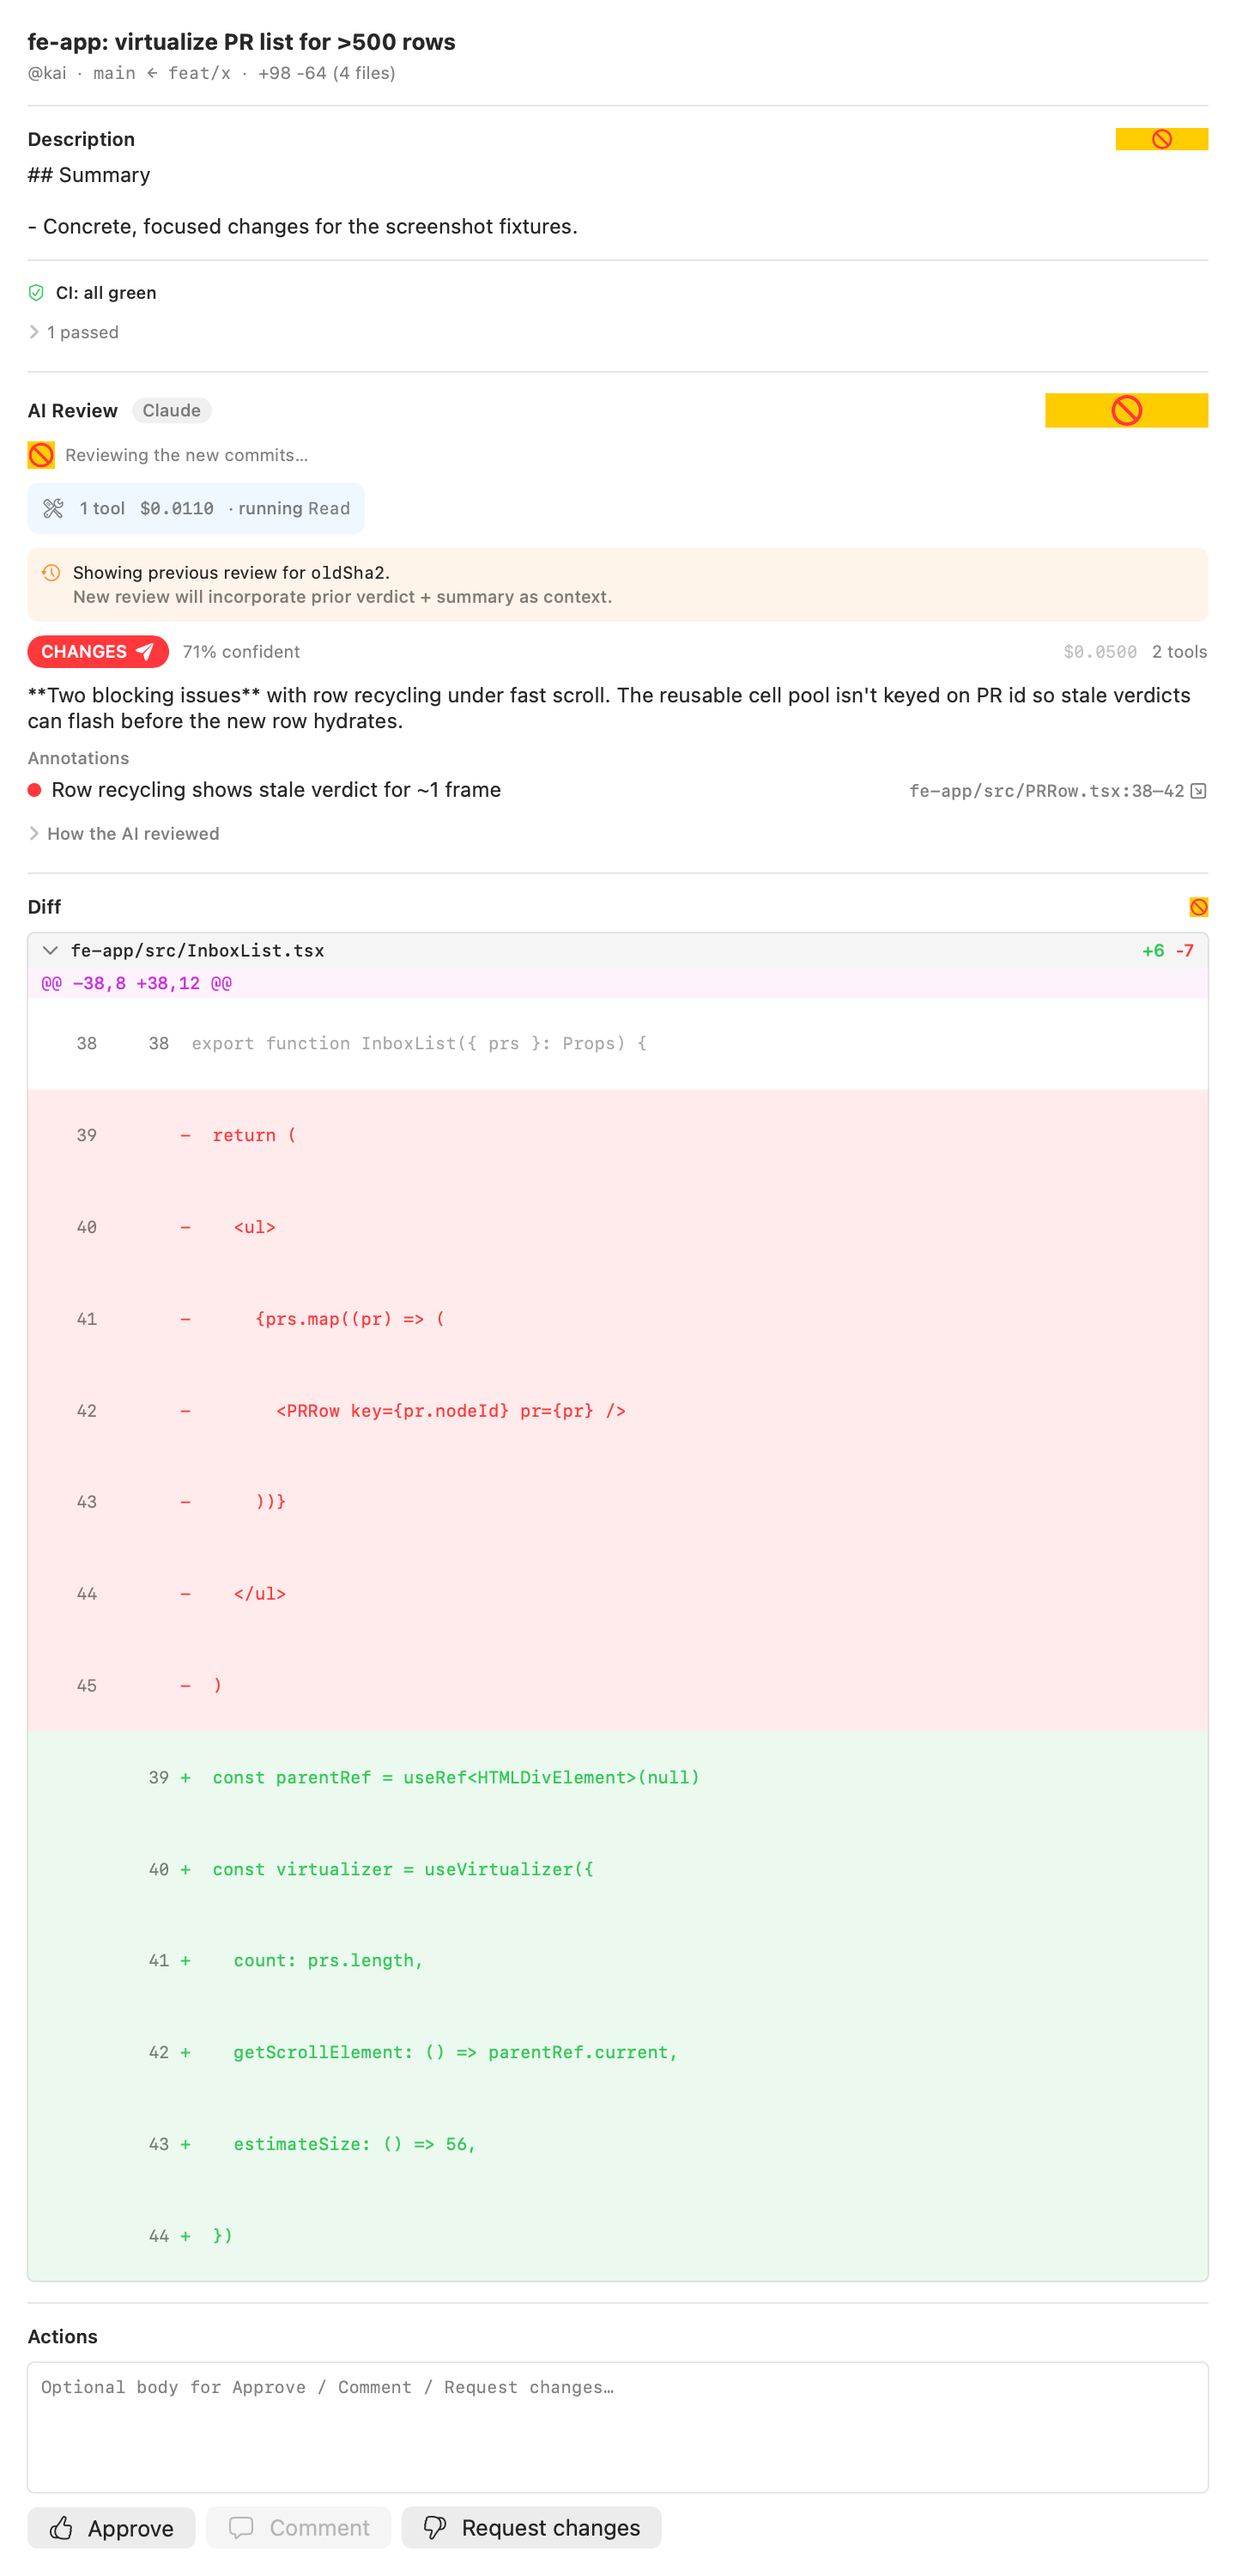
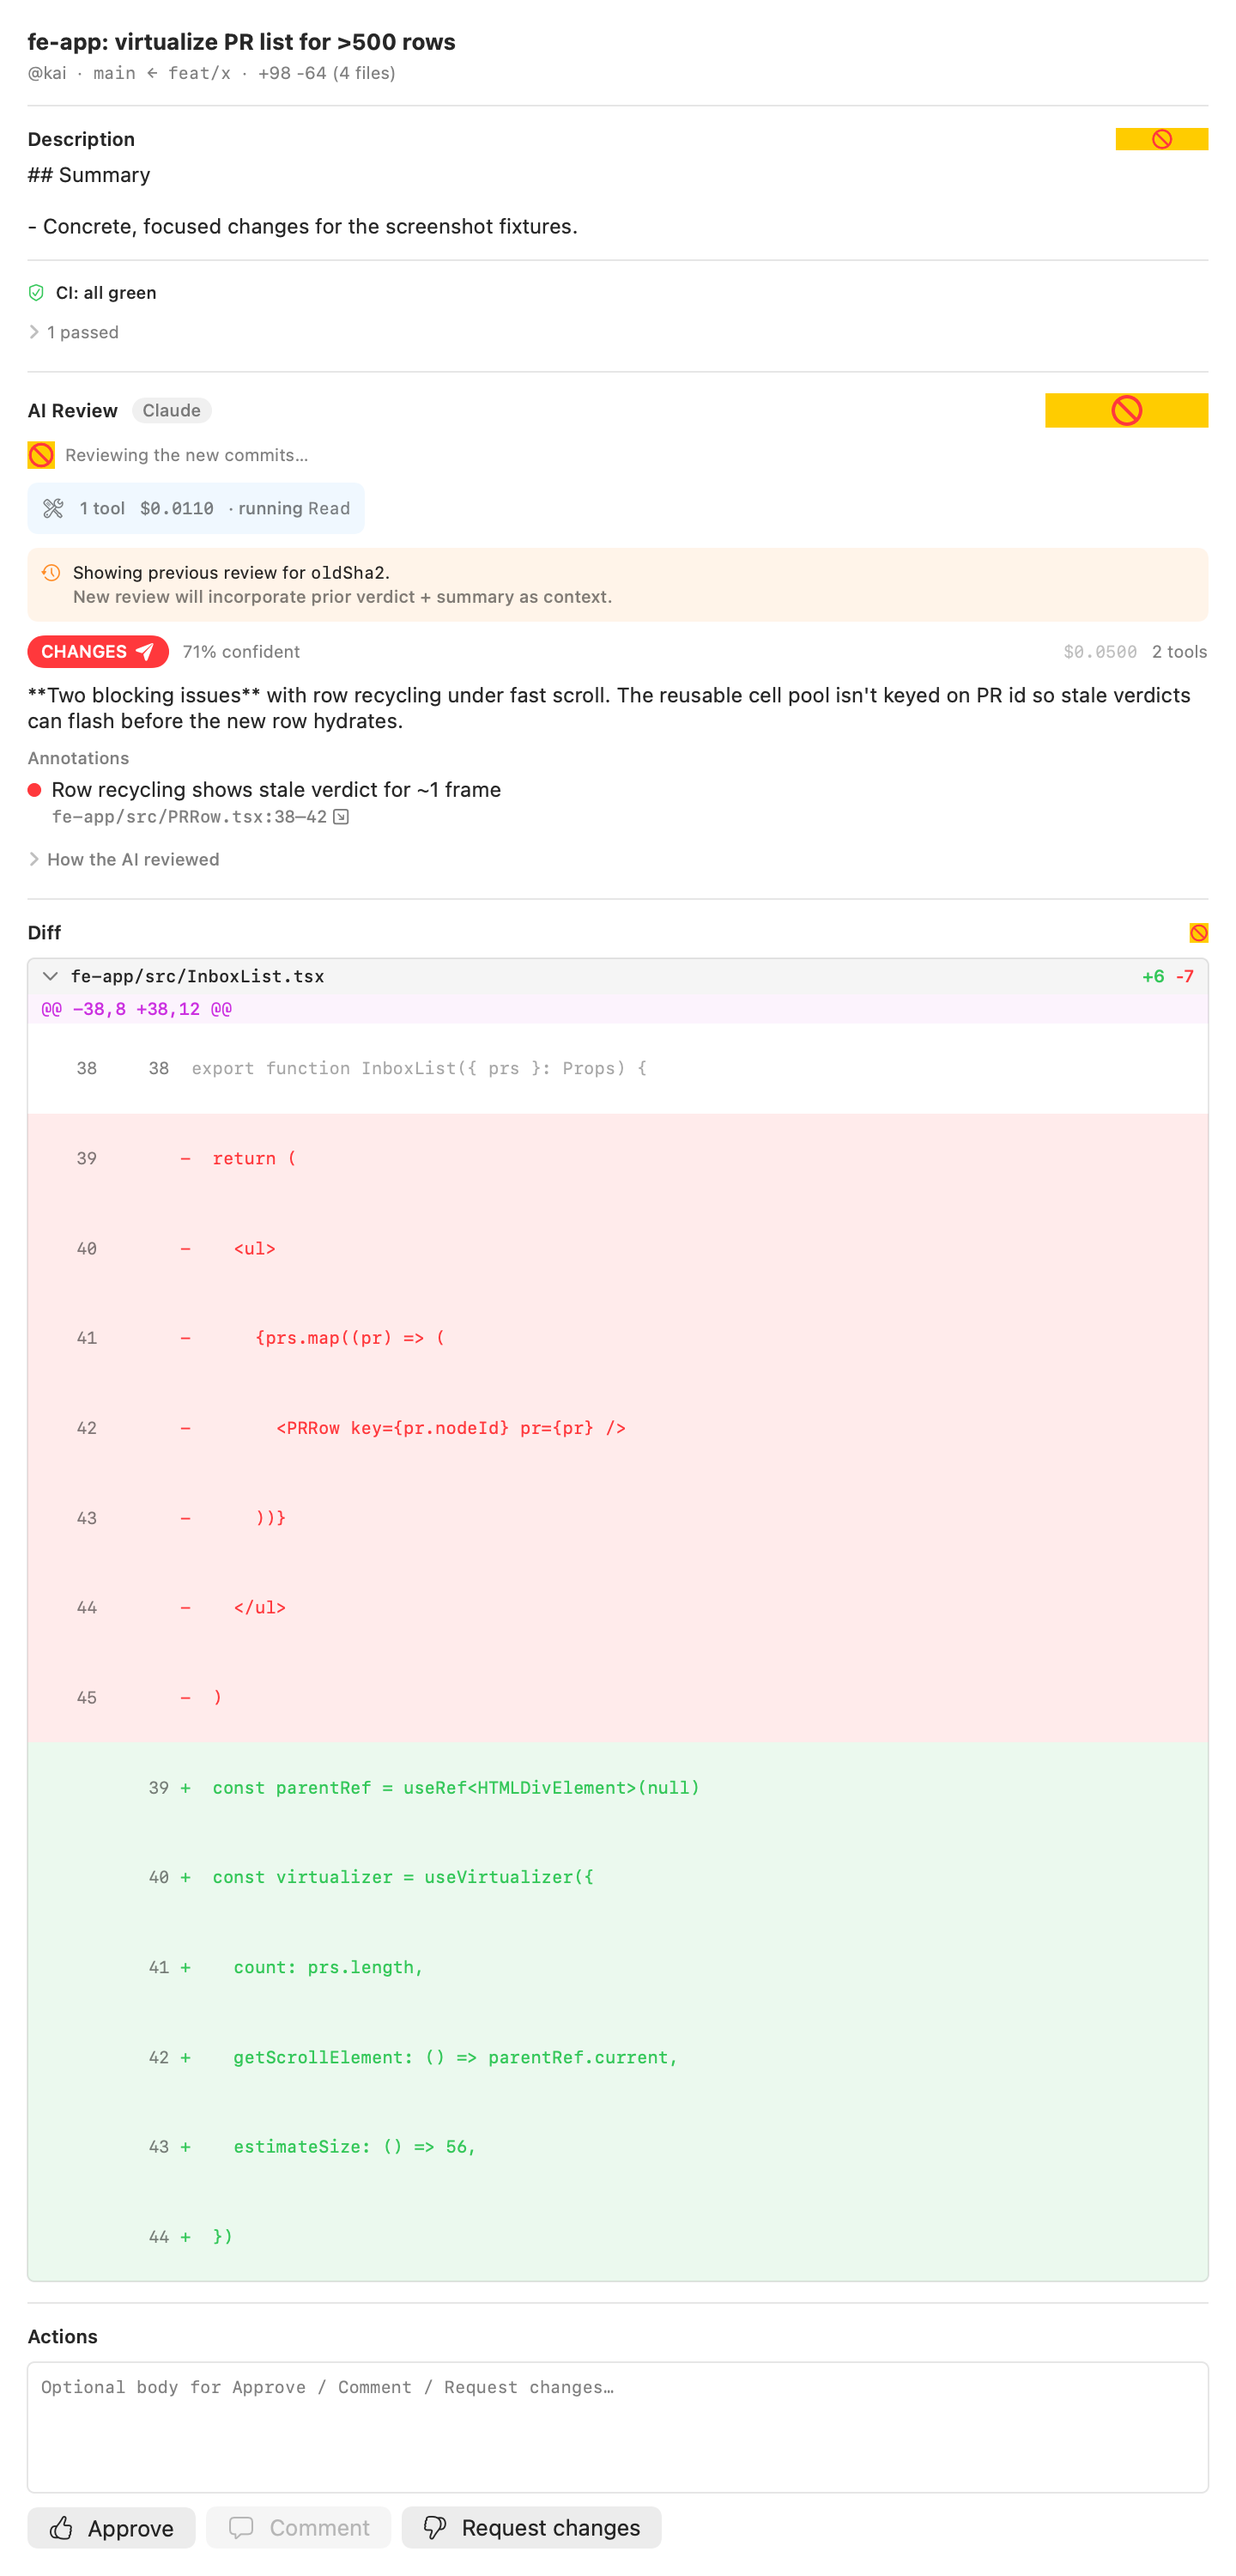
prbar: split annotation rows — title on its own line, path + jump-to-diff below
Long monorepo paths (`kernel-billing/internal/foo/bar.go:123-127`) were
trimming the title with ellipsis. Now the row is two stacked lines:
the title + severity dot grab the full width (up to 2 lines, then
truncate), and the file path with the locate-in-diff button sits below,
indented under the dot. Title stays the prominent thing; the path is
secondary.

diff --git a/Sources/PRBar/UI/AnnotationsSummaryView.swift b/Sources/PRBar/UI/AnnotationsSummaryView.swift
@@ -53,25 +53,28 @@ struct AnnotationsSummaryView: View {
     private func row(idx: Int, annotation: DiffAnnotation) -> some View {
         let isOpen = expanded.contains(idx)
         VStack(alignment: .leading, spacing: 2) {
-            HStack(alignment: .firstTextBaseline, spacing: 6) {
-                Button {
-                    if isOpen { expanded.remove(idx) } else { expanded.insert(idx) }
-                } label: {
-                    HStack(alignment: .firstTextBaseline, spacing: 6) {
-                        Circle()
-                            .fill(severityColor(annotation.severity))
-                            .frame(width: 8, height: 8)
-                        Text(annotation.displayTitle)
-                            .font(.callout)
-                            .lineLimit(1)
-                            .truncationMode(.tail)
-                    }
-                    .contentShape(Rectangle())
+            // Title gets the full row width — long monorepo paths
+            // (e.g. `kernel-billing/internal/foo/bar.go:123-127`) used
+            // to push the title into ellipsis. Now the path + locate
+            // button sit on a second line under the title.
+            Button {
+                if isOpen { expanded.remove(idx) } else { expanded.insert(idx) }
+            } label: {
+                HStack(alignment: .firstTextBaseline, spacing: 6) {
+                    Circle()
+                        .fill(severityColor(annotation.severity))
+                        .frame(width: 8, height: 8)
+                    Text(annotation.displayTitle)
+                        .font(.callout)
+                        .lineLimit(2)
+                        .truncationMode(.tail)
+                        .frame(maxWidth: .infinity, alignment: .leading)
                 }
-                .buttonStyle(.plain)
+                .contentShape(Rectangle())
+            }
+            .buttonStyle(.plain)
 
-                Spacer()
-
+            HStack(alignment: .firstTextBaseline, spacing: 6) {
                 if let onLocate {
                     Button {
                         onLocate(annotation)
@@ -79,6 +82,8 @@ struct AnnotationsSummaryView: View {
                         HStack(spacing: 2) {
                             Text(locationLabel(annotation))
                                 .font(.system(.caption2, design: .monospaced))
+                                .lineLimit(1)
+                                .truncationMode(.middle)
                             Image(systemName: "arrow.down.right.square")
                                 .font(.caption2)
                         }
@@ -91,8 +96,12 @@ struct AnnotationsSummaryView: View {
                     Text(locationLabel(annotation))
                         .font(.system(.caption2, design: .monospaced))
                         .foregroundStyle(.secondary)
+                        .lineLimit(1)
+                        .truncationMode(.middle)
                 }
+                Spacer()
             }
+            .padding(.leading, 14) // Indent under the severity dot.
 
             if isOpen {
                 Text(annotation.body)
